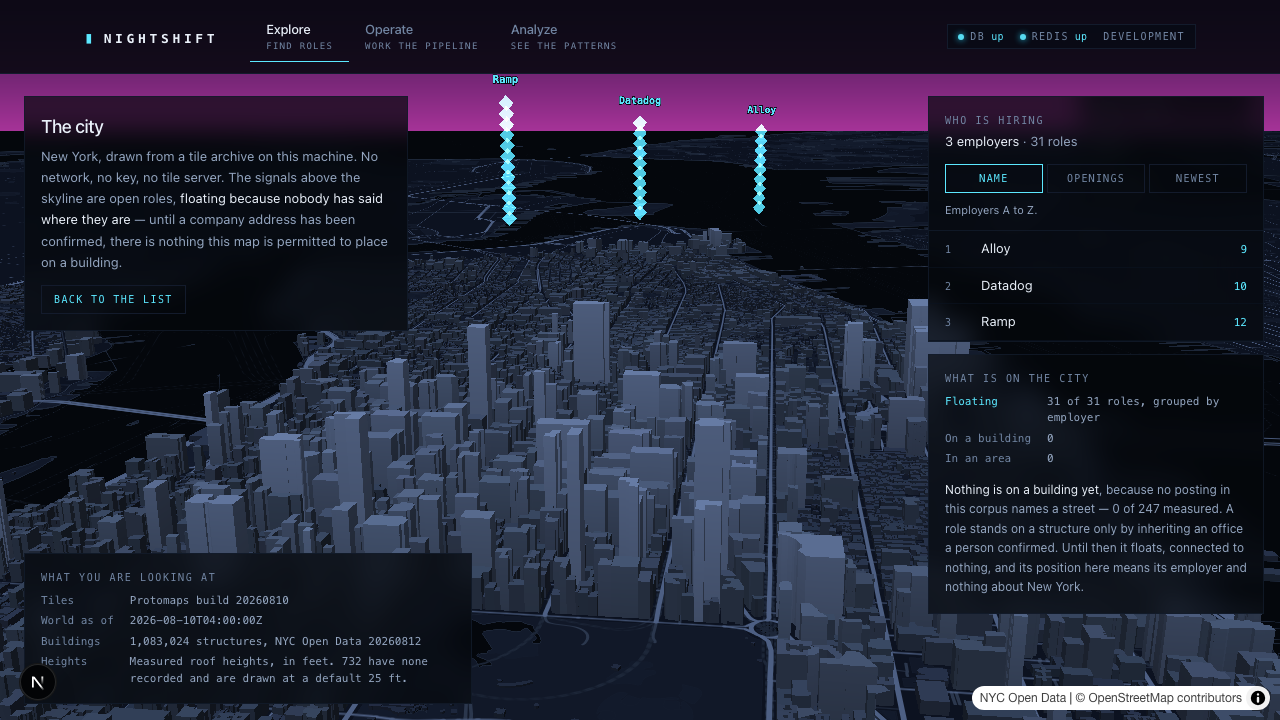
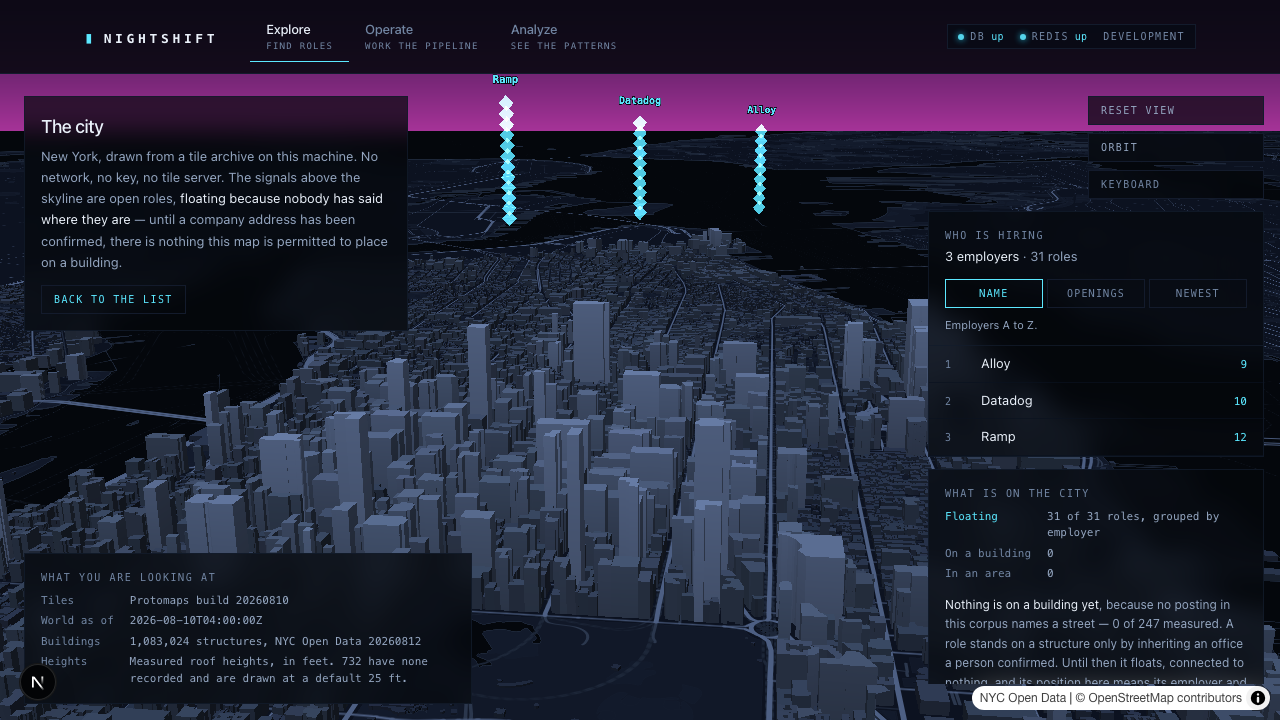
fix(city): the camera panel had been covered by the roster, and nothing failed
`CameraControls` placed itself at `top-24 right-4`. The roster rail was given
the same corner two commits ago and covered it completely — every button, at
full size, with its label, unreachable by any pointer.

The whole seeded suite stayed green through it. `toBeVisible` means a non-empty
bounding box, not a reachable element, and `openCity` asserts exactly that on
"Reset view" as its readiness check. It surfaced only when a test in the
*offline* suite tried to click one, which is the suite with no API and the one
easiest to assume covers less.

Two panels that each position themselves absolutely cannot know about each
other, and I would have made the same mistake with a third. `CityRail` now owns
where everything on that side of the screen goes and the panels are flex
children with no opinion about it. `CameraControls` reads the controller from
the scene store when no prop is given, so it can be rendered from the rail
without prop-drilling through a component whose whole job is lifecycle;
`CityMap` publishes `mapReady` in place of the gate it used to hold in its own
state, because a camera exists seconds before a frame is painted.

The rail is one scroll container rather than the roster having its own. The
first arrangement let the fixed panels take their height first, which on a
720px window left about ninety pixels for the list — a corpus of *three*
employers scrolled and showed two.

A new test clicks every control in the rail. Playwright fails a click that
[…]

diff --git a/apps/web/src/components/CityMap.tsx b/apps/web/src/components/CityMap.tsx
@@ -46,7 +46,6 @@
 
 import { useEffect, useRef, useState } from 'react';
 
-import { CameraControls } from '@/components/CameraControls';
 import { useCityScene } from '@/lib/city/scene';
 import { createSignalLayer } from '@/lib/city/signalLayer';
 import { BASEMAP_URL, BUILDINGS_URL } from '@/lib/tiles';
@@ -104,14 +103,6 @@ export function CityMap({ children }: { readonly children?: React.ReactNode }) {
   const [status, setStatus] = useState<Status>({ kind: 'loading' });
   /** The route's explanation for a missing skyline, or null when there is one. */
   const [skyline, setSkyline] = useState<string | null>(null);
-  /**
-   * In state rather than a ref, because the controls render from it. It is
-   * created inside the effect and torn down with the map: a controller outliving
-   * its map holds listeners on a detached container and answers questions about
-   * a camera that no longer exists.
-   */
-  const [camera, setCamera] = useState<CameraController | null>(null);
-
   // Stand down the document shell — the centred column, the page padding, the
   // footer — for as long as this map is mounted. The rules live in globals.css
   // beside the shell they modify; this only flips the switch, and it flips it
@@ -214,7 +205,12 @@ export function CityMap({ children }: { readonly children?: React.ReactNode }) {
       // city for more than ten seconds. A style that has not been applied cannot
       // produce a painted frame anyway, so the outer wait was buying nothing.
       created.once('render', () => {
-        if (!cancelled) setStatus({ kind: 'ready' });
+        if (cancelled) return;
+        setStatus({ kind: 'ready' });
+        // Published for the rail, which decides from here whether to offer the
+        // camera buttons. The controller has existed since the line above the
+        // map was constructed; a painted frame is a different fact.
+        useCityScene.getState().setMapReady(true);
       });
       created.on('error', (event: { error?: { message?: string } }) => {
         if (cancelled) return;
@@ -235,10 +231,11 @@ export function CityMap({ children }: { readonly children?: React.ReactNode }) {
       // listeners to the map's container, so it must be built after the map and
       // destroyed before it.
       controller = createCameraController({ map: created });
-      setCamera(controller);
-      // Also into the store, so overlays passed in as `children` can drive the
-      // camera without this component threading it through them. Nulled in the
-      // teardown below, next to `setCamera(null)`.
+      // Into the store rather than into component state, which is where it used
+      // to go when this component rendered the camera panel. That panel now
+      // lives in `CityRail` with everything else on that side of the screen, so
+      // the store is the only reader and a second copy here could only
+      // disagree with it. Cleared by `reset()` in the teardown below.
       useCityScene.getState().setCamera(controller);
 
       // **The label goes on the canvas, because the canvas is what focus lands
@@ -318,7 +315,6 @@ export function CityMap({ children }: { readonly children?: React.ReactNode }) {
       unsubscribeScene?.();
       uninstallDebug?.();
       controller?.destroy();
-      setCamera(null);
       // `map.remove()` calls `onRemove` on every layer, which is where the
       // signal layer disposes its geometry, its material and its mesh. A
       // teardown that skipped it would leak GPU memory past the page's own.
@@ -353,12 +349,7 @@ export function CityMap({ children }: { readonly children?: React.ReactNode }) {
       {/* Overlays sit above the canvas and below the app header. `pointer-events`
           is off on the layer and back on inside each panel, so a gap between
           panels is still a place you can drag the city by. */}
-      <div className="pointer-events-none absolute inset-0 z-10">
-        {children}
-        {/* Only once there is a camera to drive. Rendering the panel over a
-            still-loading map would offer buttons that do nothing. */}
-        {status.kind === 'ready' && <CameraControls camera={camera} />}
-      </div>
+      <div className="pointer-events-none absolute inset-0 z-10">{children}</div>
 
       {/* A city drawing without its skyline says so, in place, rather than
           looking like a New York where nothing was ever built. I3's habit of

diff --git a/apps/web/src/components/CityRail.tsx b/apps/web/src/components/CityRail.tsx
@@ -1,0 +1,57 @@
+'use client';
+
+/**
+ * Everything on the right-hand side of the city, in one column that decides
+ * where all of it goes.
+ *
+ * **This file exists because of a bug it makes impossible.** The camera panel
+ * placed itself at `top-24 right-4`; the roster was later given the same
+ * corner and covered it completely. Nothing failed: the buttons kept their
+ * size and their labels, and Playwright's `toBeVisible` means a non-empty
+ * bounding box rather than a reachable element, so a full browser suite went
+ * green over controls no pointer could touch. It surfaced only when a test in
+ * the offline suite tried to *click* one.
+ *
+ * Two panels that each place themselves absolutely cannot know about each
+ * other, and a third would have had the same accident. So placement is one
+ * component's job and the panels are flex children with no opinion about where
+ * they sit.
+ *
+ * The order is deliberate: the controls first, because they are the smallest
+ * and the most used; the roster next, taking the slack and scrolling inside
+ * itself; the counts last, pinned to the bottom, because they are a summary of
+ * everything above them.
+ */
+
+import { CameraControls } from '@/components/CameraControls';
+import { CityRoster } from '@/components/CityRoster';
+import { CitySignals } from '@/components/CitySignals';
+import { useCityScene } from '@/lib/city/scene';
+
+export function CityRail() {
+  // The camera exists from the moment the map is constructed, seconds before
+  // New York is on screen. Offering its buttons over a blank canvas is what
+  // this gate prevents, and it lived in `CityMap`'s own state until the
+  // controls moved in here.
+  const mapReady = useCityScene((state) => state.mapReady);
+
+  return (
+    // `bottom-9` clears MapLibre's attribution control. `pointer-events-none`
+    // on the column and back on inside each panel, so the gaps between them
+    // are still places you can drag the city by.
+    //
+    // **One scroll container, here, rather than one inside the roster.** The
+    // first version gave the roster its own `overflow-y-auto` and let the rail
+    // distribute the height. On a 720px window the fixed panels — five camera
+    // buttons, the sort control, the counts and their paragraph — left about
+    // ninety pixels for the list, so a corpus of *three* employers scrolled and
+    // showed two. Letting the whole column scroll means every panel keeps its
+    // natural height and the short-viewport case degrades to a scrollbar
+    // instead of to a two-row window onto a three-row list.
+    <div className="pointer-events-none absolute top-24 right-4 bottom-9 z-20 flex w-[21rem] max-w-[calc(100vw-2rem)] flex-col items-stretch gap-3 overflow-y-auto">
+      {mapReady && <CameraControls />}
+      <CityRoster />
+      <CitySignals />
+    </div>
+  );
+}

diff --git a/apps/web/src/components/CameraControls.tsx b/apps/web/src/components/CameraControls.tsx
@@ -21,6 +21,7 @@
 
 import { useState, useSyncExternalStore } from 'react';
 
+import { useCityScene } from '@/lib/city/scene';
 import type { CameraController } from '@/lib/map/camera';
 import { KEYBOARD_HELP } from '@/lib/map/camera';
 
@@ -32,8 +33,19 @@ const BUTTON =
   'text-[10px] tracking-[0.14em] uppercase backdrop-blur-md transition-colors ' +
   'hover:border-signal-400 focus-visible:border-signal-400 focus-visible:outline-none';
 
-export function CameraControls({ camera }: { readonly camera: CameraController | null }) {
+/**
+ * The controller is a prop *or* the one in the scene store.
+ *
+ * The prop is what the unit tests drive, and it wins when given. The fallback
+ * is what the page uses: this panel is rendered from the overlay rail, which
+ * is several components away from the map that builds the controller, and
+ * threading it through would mean prop-drilling through a component whose
+ * whole job is lifecycle.
+ */
+export function CameraControls({ camera: given }: { readonly camera?: CameraController | null }) {
   const [keysOpen, setKeysOpen] = useState(false);
+  const stored = useCityScene((state) => state.camera);
+  const camera = given === undefined ? stored : given;
   const source = camera ?? NO_SUBSCRIPTION;
   // The server has no camera and no motion preference, so the server snapshot
   // is a constant — otherwise React warns about a mismatched hydration.
@@ -59,7 +71,16 @@ export function CameraControls({ camera }: { readonly camera: CameraController |
   };
 
   return (
-    <div className="pointer-events-none absolute top-24 right-4 flex w-44 flex-col items-stretch gap-2 sm:right-6">
+    // Deliberately unpositioned. It used to place itself at `top-24 right-4`,
+    // and the roster rail was later given the same corner — which covered these
+    // buttons completely while every test kept passing, because Playwright's
+    // "visible" means a non-empty box rather than a reachable one. `CityRail`
+    // owns where everything on this side of the screen goes, so a panel can no
+    // longer be hidden by a sibling that never knew it existed.
+    // `shrink-0`, so the rail takes its slack out of the roster instead. These
+    // are five fixed buttons; the roster is the only panel here whose height is
+    // a function of the corpus, so it is the only one that should give.
+    <div className="pointer-events-none flex w-44 shrink-0 flex-col items-stretch gap-2 self-end">
       <button type="button" className={`${BUTTON} text-paper-dim`} onClick={() => camera.reset()}>
         Reset view
       </button>

diff --git a/apps/web/src/lib/city/scene.ts b/apps/web/src/lib/city/scene.ts
@@ -53,10 +53,21 @@ interface CityScene {
   readonly sort: FieldSort;
   /** The live camera, or null when no map is mounted. A handle, not state. */
   readonly camera: CameraController | null;
+  /**
+   * Has the map painted a frame?
+   *
+   * Not the same question as "is there a camera": the controller exists from
+   * the moment the map is constructed, several seconds before New York is on
+   * screen. The rail uses this to keep from offering camera buttons over a
+   * blank canvas — a gate `CityMap` used to hold in its own state, moved here
+   * when the controls moved into the rail.
+   */
+  readonly mapReady: boolean;
   setSignals(signals: readonly CitySignal[]): void;
   setUnavailable(detail: string): void;
   setSort(sort: FieldSort): void;
   setCamera(camera: CameraController | null): void;
+  setMapReady(ready: boolean): void;
   reset(): void;
 }
 
@@ -65,15 +76,17 @@ export const useCityScene = create<CityScene>((set) => ({
   status: { kind: 'loading' },
   sort: 'company',
   camera: null,
+  mapReady: false,
   setSignals: (signals) => set({ signals, status: { kind: 'ready' } }),
   setUnavailable: (detail) => set({ signals: [], status: { kind: 'unavailable', detail } }),
   setSort: (sort) => set({ sort }),
   setCamera: (camera) => set({ camera }),
+  setMapReady: (mapReady) => set({ mapReady }),
   // Called when the map unmounts. A store that kept the last city would hand
   // the next map a frame of stale beacons before its own fetch resolved.
   //
   // The sort is deliberately *not* reset: it is a choice the person made, and
   // returning from a job's detail page to find the field reordered would be
   // the interface forgetting something they did on purpose.
-  reset: () => set({ signals: [], status: { kind: 'loading' }, camera: null }),
+  reset: () => set({ signals: [], status: { kind: 'loading' }, camera: null, mapReady: false }),
 }));

diff --git a/apps/web/e2e-seeded/city.spec.ts b/apps/web/e2e-seeded/city.spec.ts
@@ -378,3 +378,30 @@ test('the sort control is a radio group a keyboard can reach', async ({ page }) 
   await expect(newest).toHaveAttribute('aria-checked', 'true');
   await expect(name).toHaveAttribute('aria-checked', 'false');
 });
+
+test('every control in the right rail can actually be clicked', async ({ page }) => {
+  await openCity(page);
+  await cityHasSignals(page);
+
+  // The regression this exists for: the camera panel placed itself at
+  // `top-24 right-4`, the roster was later given the same corner, and the
+  // buttons disappeared underneath it. Nothing went red — `toBeVisible` means
+  // a non-empty bounding box, not a reachable element, so a green suite sat on
+  // top of controls no pointer could touch. Clicking is what tells them apart,
+  // and this is the seeded suite, where the rail is at its fullest: the
+  // controls, a roster of employers, and the counts.
+  //
+  // Playwright's actionability check fails a click that another element would
+  // intercept, so each of these is an occlusion assertion.
+  await page.getByRole('button', { name: 'Reset view' }).click({ timeout: 10_000 });
+  await page.getByRole('button', { name: 'Keyboard' }).click({ timeout: 10_000 });
+  await page.getByRole('button', { name: 'Hide keys' }).click({ timeout: 10_000 });
+  await page.getByRole('radio', { name: 'Openings' }).click({ timeout: 10_000 });
+
+  const roster = page.getByRole('region', { name: /who is hiring/i });
+  await roster.getByRole('button').first().click({ timeout: 10_000 });
+
+  // And the counts panel at the foot of the rail is still on screen with all
+  // of that above it, rather than pushed off the bottom.
+  await expect(page.getByRole('region', { name: /what is on the city/i })).toBeVisible();
+});

diff --git a/apps/web/src/app/explore/city/page.tsx b/apps/web/src/app/explore/city/page.tsx
@@ -1,8 +1,7 @@
 import Link from 'next/link';
 
 import { CityMap } from '@/components/CityMap';
-import { CityRoster } from '@/components/CityRoster';
-import { CitySignals } from '@/components/CitySignals';
+import { CityRail } from '@/components/CityRail';
 import { basemapManifest, buildingsManifest } from '@/lib/tiles';
 
 /**
@@ -52,18 +51,11 @@ export default function CityPage() {
         </Link>
       </section>
 
-      {/* The right rail: who is hiring, and what the field above the skyline
-          actually contains. One column rather than two floating panels, because
-          they are two halves of one answer and at the same corner the taller
-          one simply covered the other.
-
-          `bottom-9` clears MapLibre's attribution control. The roster takes the
-          slack and scrolls inside itself, so a corpus of three employers and one
-          of three hundred both leave the counts visible at the bottom. */}
-      <div className="pointer-events-none absolute top-24 right-4 bottom-9 z-20 flex w-[21rem] max-w-[calc(100vw-2rem)] flex-col gap-3">
-        <CityRoster />
-        <CitySignals />
-      </div>
+      {/* The right rail: the camera controls, who is hiring, and what the field
+          above the skyline actually contains. One component owns where all
+          three go — see `CityRail`, which exists because two panels that each
+          placed themselves ended up in the same corner. */}
+      <CityRail />
 
       {/* Bottom left, out of the way of the attribution control. Provenance:
           how old the world in these tiles is, and who it belongs to. */}

diff --git a/apps/web/src/components/CityRoster.tsx b/apps/web/src/components/CityRoster.tsx
@@ -99,7 +99,10 @@ export function CityRoster() {
   }
 
   return (
-    <section aria-labelledby="city-roster-heading" className={`flex min-h-0 flex-col ${PANEL}`}>
+    // Natural height, and `shrink-0` like every other panel in the rail: the
+    // rail is the scroll container now, so nothing here competes for a fixed
+    // budget. See `CityRail` for why that turned out to matter at three rows.
+    <section aria-labelledby="city-roster-heading" className={`flex shrink-0 flex-col ${PANEL}`}>
       <div className="border-b border-ink-700/80 p-4 pb-3">
         <h2
           id="city-roster-heading"
@@ -142,7 +145,7 @@ export function CityRoster() {
         <p className="mt-2 text-[11px] leading-relaxed text-paper-dim">{SORT_LABELS[sort].means}</p>
       </div>
 
-      <ul className="min-h-0 flex-1 overflow-y-auto">
+      <ul>
         {columns.map((column, index) => (
           <li key={column.companyId}>
             <button
